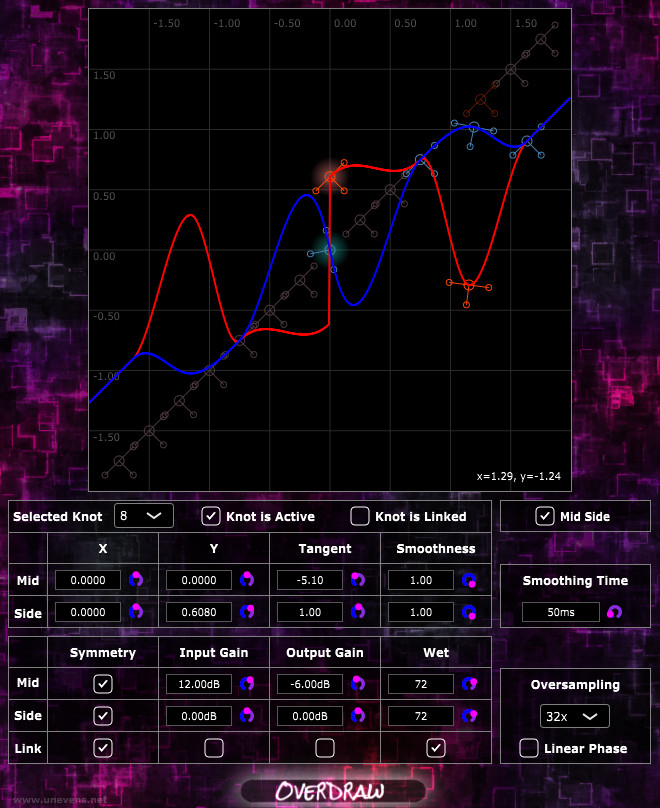
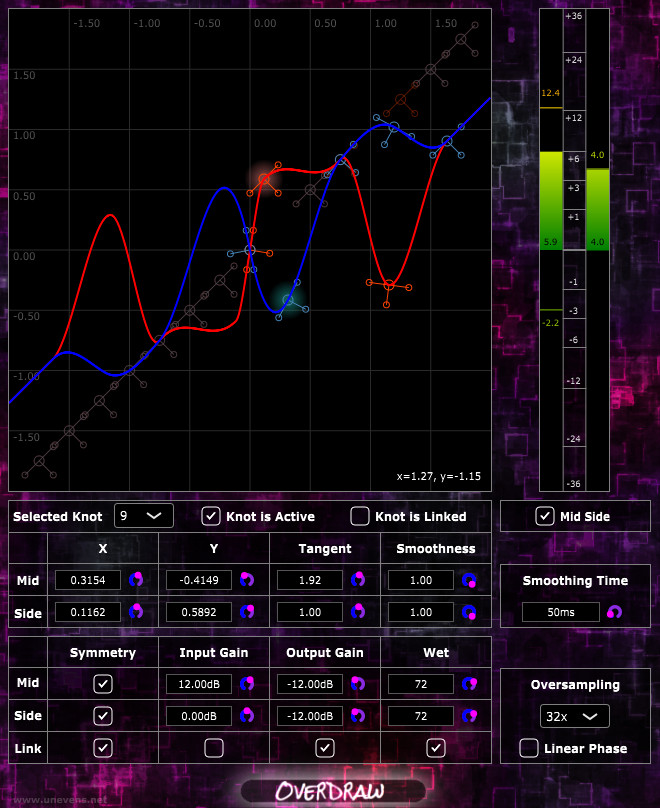
added vumeter

diff --git a/Source/Processing.cpp b/Source/Processing.cpp
@@ -57,6 +57,13 @@ applyGain(double** io,
   }
 }
 
+static inline Vec2d
+toDB(Vec2d linear)
+{
+  return (10.0 / 2.30258509299404568402) *
+         log(linear + std::numeric_limits<float>::min());
+}
+
 void
 OverdrawAudioProcessor::processBlock(AudioBuffer<double>& buffer,
                                      MidiBuffer& midi)
@@ -188,10 +195,19 @@ OverdrawAudioProcessor::processBlock(AudioBuffer<double>& buffer,
     numUpsampledSamples,
     numSamples);
 
-  // dry-wet and output gain
+  // dry-wet, output gain and vu meter
 
   auto& wetOutput = oversampling.vecToVecDownsamplers[0]->getOutput();
   auto& dryOutput = oversampling.vecToVecDownsamplers[1]->getOutput();
+
+  constexpr double vuMeterFrequency = 10.0;
+
+  Vec2d vuMeterAlpha =
+    exp(-MathConstants<double>::twoPi * invSampleRate * vuMeterFrequency);
+
+  auto vuMeterDryBuffer = vuMeterBuffer[0];
+  auto vuMeterWetBuffer = vuMeterBuffer[1];
+  auto vuMeterBufferDB = vuMeterBuffer[2];
 
   if (isWetPassNeeded) {
 
@@ -206,37 +222,63 @@ OverdrawAudioProcessor::processBlock(AudioBuffer<double>& buffer,
     Vec2d outputGain = Vec2d().load(gain[1]);
     Vec2d outputGainTarget = Vec2d().load(gainTarget[1]);
 
+    Vec2d vuMeterDry = vuMeterDryBuffer;
+    Vec2d vuMeterWet = vuMeterWetBuffer;
+
     for (int i = 0; i < numSamples; ++i) {
       amount = alpha * (amount - amountTarget) + amountTarget;
       outputGain = alpha * (outputGain - outputGainTarget) + outputGainTarget;
       Vec2d wet = outputGain * wetBuffer[i];
       Vec2d dry = dryBuffer[i];
       wetBuffer[i] = amount * (wet - dry) + dry;
+      Vec2d wet2 = wet * wet;
+      Vec2d dry2 = dry * dry;
+      vuMeterWet = vuMeterAlpha * (vuMeterWet - wet2) + wet2;
+      vuMeterDry = vuMeterAlpha * (vuMeterDry - dry2) + dry2;
     }
 
     amount.store(wetAmount);
     outputGain.store(gain[1]);
+
+    vuMeterWetBuffer = vuMeterWet;
+    vuMeterDryBuffer = vuMeterDry;
+    vuMeterBufferDB = toDB(vuMeterWet) - toDB(vuMeterDry);
   }
   else {
     if (!isBypassing) {
 
       auto& wetBuffer = wetOutput.getBuffer2(0);
+      auto& dryBuffer = dryOutput.getBuffer2(0);
 
       Vec2d alpha = automationAlpha;
+
       Vec2d outputGain = Vec2d().load(gain[1]);
       Vec2d outputGainTarget = Vec2d().load(gainTarget[1]);
 
+      Vec2d vuMeterDry = vuMeterDryBuffer;
+      Vec2d vuMeterWet = vuMeterWetBuffer;
       for (int i = 0; i < numSamples; ++i) {
         outputGain = alpha * (outputGain - outputGainTarget) + outputGainTarget;
-        wetBuffer[i] = outputGain * wetBuffer[i];
+        Vec2d wet = outputGain * wetBuffer[i];
+        wetBuffer[i] = wet;
+        Vec2d dry = dryBuffer[i];
+        Vec2d wet2 = wet * wet;
+        Vec2d dry2 = dry * dry;
+        vuMeterWet = vuMeterAlpha * (vuMeterWet - wet2) + wet2;
+        vuMeterDry = vuMeterAlpha * (vuMeterDry - dry2) + dry2;
       }
 
       outputGain.store(gain[1]);
+
+      vuMeterWetBuffer = vuMeterWet;
+      vuMeterDryBuffer = vuMeterDry;
+      vuMeterBufferDB = toDB(vuMeterWet) - toDB(vuMeterDry);
     }
   }
 
   if (isBypassing) {
     dryOutput.deinterleave(ioAudio, 2, numSamples);
+    vuMeterBufferDB = 0.0;
   }
   else {
     wetOutput.deinterleave(ioAudio, 2, numSamples);
@@ -247,4 +289,9 @@ OverdrawAudioProcessor::processBlock(AudioBuffer<double>& buffer,
   if (isMidSideEnabled) {
     midSideToLeftRight(ioAudio, numSamples);
   }
+
+  // update vu meter
+
+  vuMeterResults[0] = vuMeterBufferDB[0];
+  vuMeterResults[1] = vuMeterBufferDB[1];
 }

diff --git a/Source/PluginEditor.cpp b/Source/PluginEditor.cpp
@@ -62,6 +62,10 @@ OverdrawAudioProcessorEditor::OverdrawAudioProcessorEditor(
 
   , smoothing(*this, *p.getOverdrawParameters().apvts, "Smoothing-Time")
 
+  , vuMeter({ { &p.vuMeterResults[0], &p.vuMeterResults[1] } },
+            36.f,
+            [](float x) { return std::sqrt(x); })
+
   , background(ImageCache::getFromMemory(BinaryData::background_png,
                                          BinaryData::background_pngSize))
 
@@ -72,6 +76,7 @@ OverdrawAudioProcessorEditor::OverdrawAudioProcessorEditor(
   addAndMakeVisible(smoothingLabel);
   addAndMakeVisible(symmetry);
   addAndMakeVisible(wet);
+  addAndMakeVisible(vuMeter);
   addAndMakeVisible(url);
   addAndMakeVisible(channelLabels);
 
@@ -86,6 +91,8 @@ OverdrawAudioProcessorEditor::OverdrawAudioProcessorEditor(
 
   midSide.getControl().setButtonText("Mid Side");
   linearPhase.getControl().setButtonText("Linear Phase");
+
+  vuMeter.internalColour = backgroundColour;
 
   lineColour = p.looks.frontColour.darker(1.f);
 
@@ -169,8 +176,7 @@ OverdrawAudioProcessorEditor::resized()
   constexpr auto splineEditorSide = 605._p;
   constexpr auto knotEditorHeight = 160._p;
 
-  spline.setTopLeftPosition((getWidth() - splineEditorSide) * 0.5 + 2,
-                            offset + 1);
+  spline.setTopLeftPosition(offset + 1, offset + 1);
   spline.setSize(splineEditorSide - 2, splineEditorSide - 2);
 
   selectedKnot.setTopLeftPosition(offset, splineEditorSide + 2 * offset);
@@ -245,6 +251,9 @@ OverdrawAudioProcessorEditor::resized()
 
     grid.performLayout(juce::Rectangle<int>(left, top, width, 120._p));
   }
+
+  vuMeter.setTopLeftPosition(left + 0.5f * (width - 89._p), offset);
+  vuMeter.setSize(89._p, splineEditorSide);
 
   url.setTopLeftPosition(10._p, getHeight() - 18._p);
   url.setSize(160._p, 16._p);

diff --git a/Source/PluginProcessor.h b/Source/PluginProcessor.h
@@ -76,6 +76,8 @@ class OverdrawAudioProcessor : public AudioProcessor
 
   ScalarBuffer<double> dryBuffer{ 2 };
 
+  VecBuffer<Vec2d> vuMeterBuffer{ 3 };
+
   // buffer for single precision processing call
   AudioBuffer<double> floatToDouble;
 
@@ -91,6 +93,7 @@ public:
 
   // for gui
   SimpleLookAndFeel looks;
+  std::array<std::atomic<float>, 2> vuMeterResults;
 
   Parameters& getOverdrawParameters() { return parameters; }
 

diff --git a/Source/PluginEditor.h b/Source/PluginEditor.h
@@ -21,6 +21,7 @@ along with Overdraw.  If not, see <https://www.gnu.org/licenses/>.
 
 #include "PluginProcessor.h"
 #include "SplineEditor.h"
+#include "GainVuMeter.h"
 #include <JuceHeader.h>
 
 class OverdrawAudioProcessorEditor : public AudioProcessorEditor
@@ -37,6 +38,8 @@ private:
 
   SplineEditor spline;
   SplineKnotEditor selectedKnot;
+
+  GainVuMeter vuMeter;
 
   AttachedToggle midSide;
   AttachedSlider smoothing;

diff --git a/Source/PluginProcessor.cpp b/Source/PluginProcessor.cpp
@@ -189,10 +189,13 @@ OverdrawAudioProcessor::reset()
   constexpr double ln10 = 2.30258509299404568402;
   constexpr double db_to_lin = ln10 / 20.0;
 
+  vuMeterBuffer.fill(0.0);
+
   for (int c = 0; c < 2; ++c) {
     wetAmount[c] = 0.01 * parameters.wet.get(c)->get();
     for (int i = 0; i < 2; ++i) {
       gain[i][c] = exp(db_to_lin * parameters.gain[i].get(c)->get());
+      vuMeterResults[c] = 0.0;
     }
   }
 }
